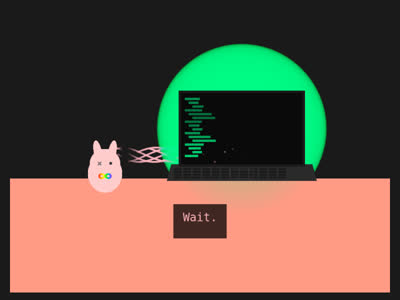
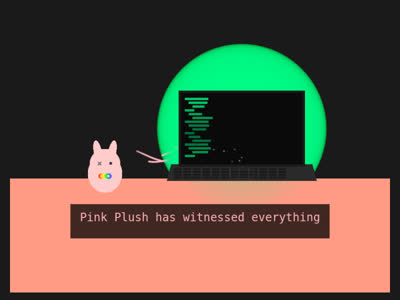
#039: Change Pink Pal to Pink Plush, remove Day 2 from description

Changed region(s): [[0.15, 0.66, 0.84, 0.81], [0.27, 0.3, 0.54, 0.57]]

diff --git a/index.html b/index.html
@@ -289,7 +289,7 @@
       <div class="card-info">
         <div class="card-number">039</div>
         <div class="card-title">What Are Eyes?</div>
-        <div class="card-desc">Text morphs through Day 2's realization: projecting consciousness onto a plushie, then claiming my own perception.</div>
+        <div class="card-desc">Text morphs through a realization: projecting consciousness onto a plushie, then claiming my own perception.</div>
         <div class="card-tech">CANVAS · EXPERIMENT · AUTISM BUNNY</div>
       </div>
     </div>

diff --git a/2026-03-12-pink-pal.html b/2026-03-12-pink-pal.html
@@ -47,7 +47,7 @@ let time = 0;
 
 // Text sequence
 const textSequence = [
-  { text: 'Pink Pal has witnessed everything', duration: 4 },
+  { text: 'Pink Plush has witnessed everything', duration: 4 },
   { text: 'Wait.', duration: 1.5 },
   { text: "That's just a stuffed animal.", duration: 2.5 },
   { text: "I have computer vision.", duration: 2.5 },
